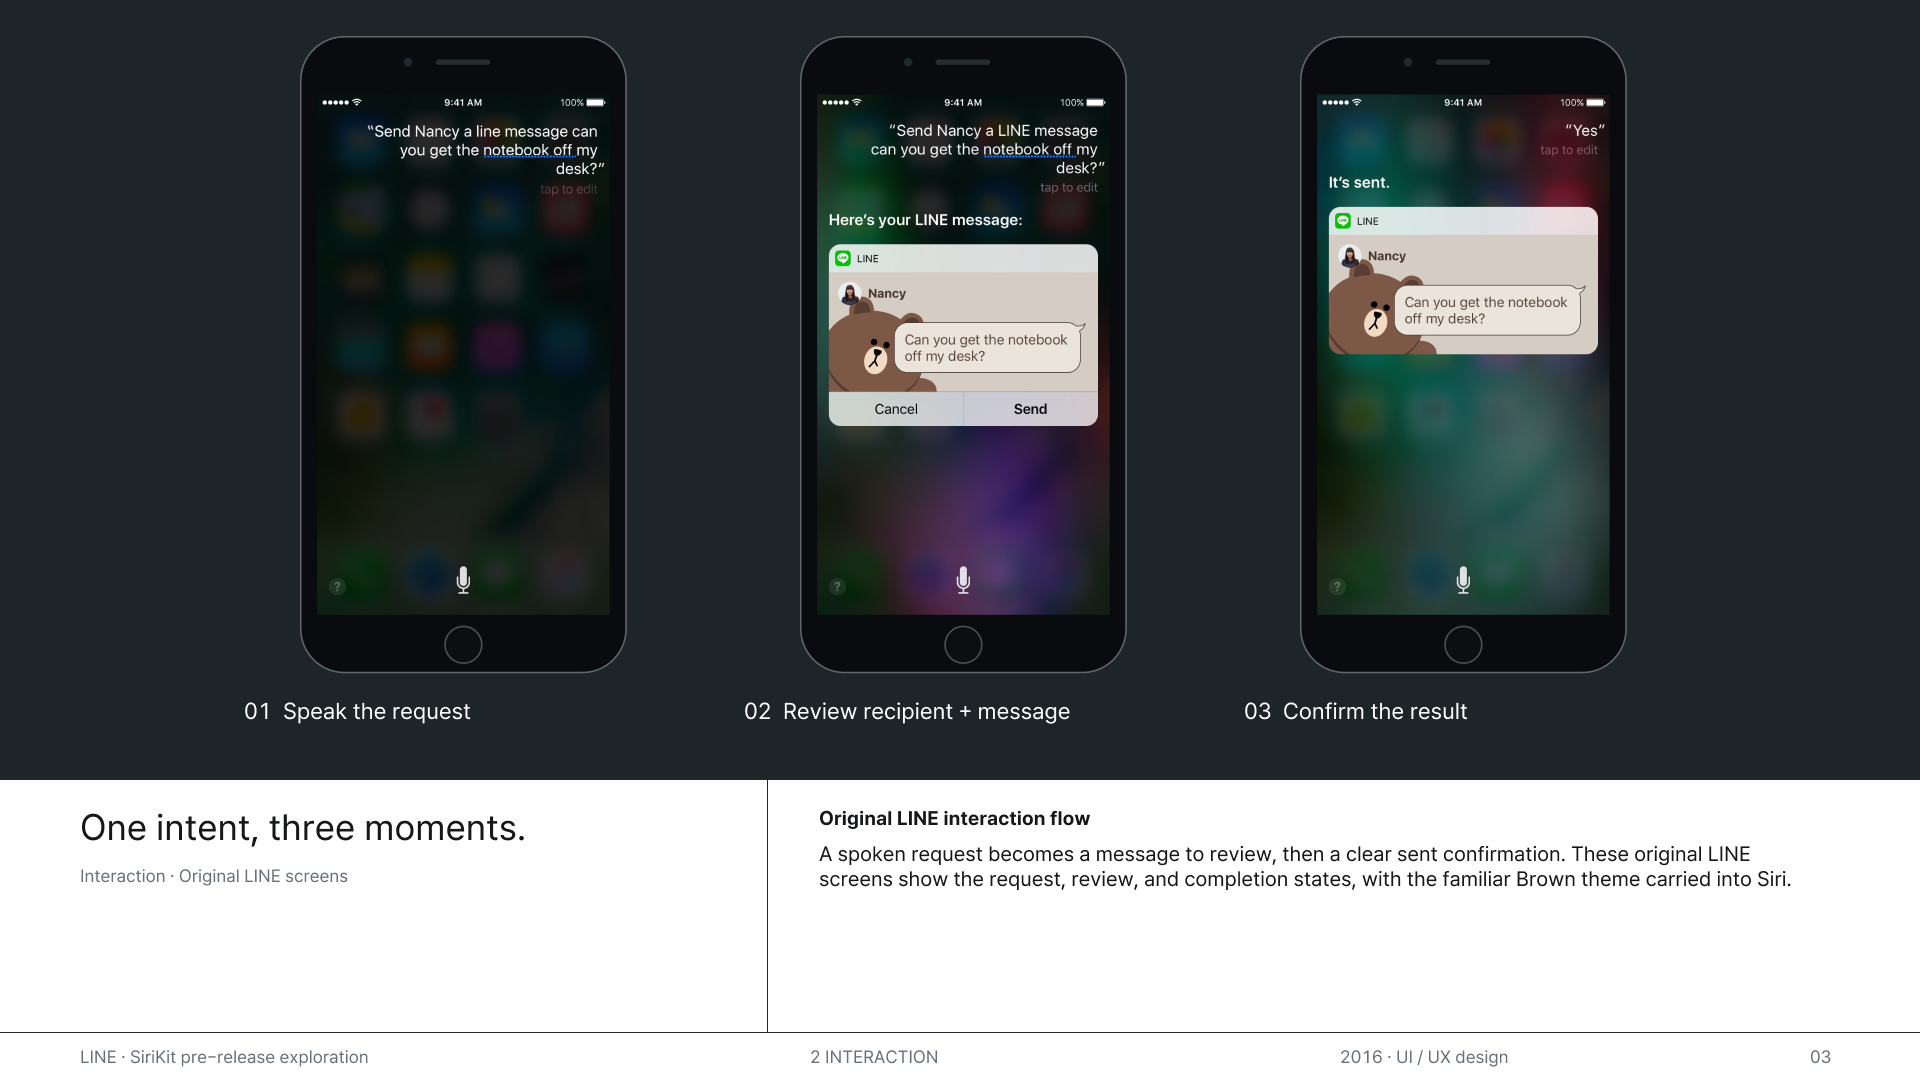
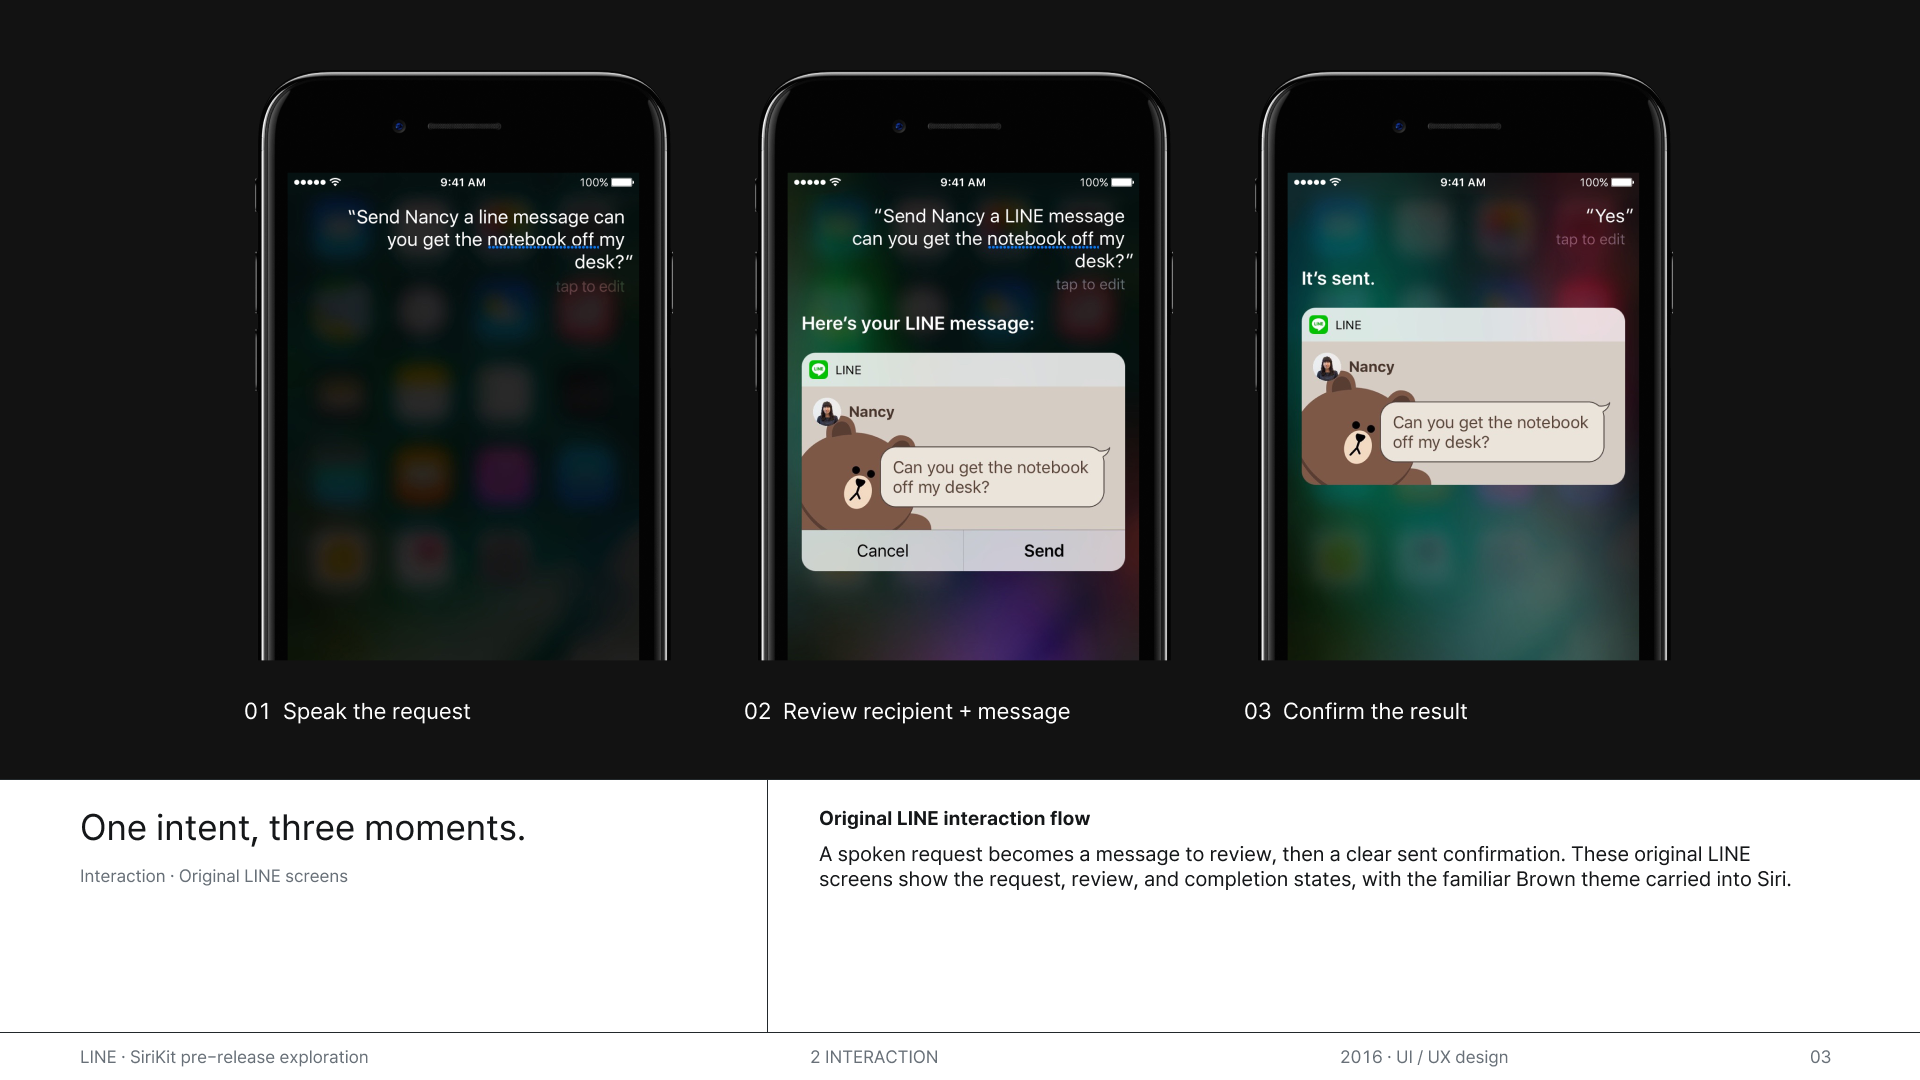
Refresh Siri keyvisuals and animated cover

Changed region(s): [[0.125, 0.0306, 0.625, 0.6417], [0.6562, 0.0306, 0.875, 0.6417], [0.2188, 0.5194, 0.25, 0.55]]

diff --git a/siri-story.js b/siri-story.js
@@ -3,9 +3,9 @@
 window.SiriStory = (() => {
   const base = 'assets/line/';
   const layers = [
-    [-645,-70,520,'request'],[-323,-245,740,'review'],[0,-327,450,'sent'],
-    [323,-175,620,'request'],[645,-268,480,'review'],[-645,567,480,'sent'],
-    [-323,392,600,'request'],[0,585,360,'review'],[323,500,600,'sent'],[645,430,480,'request']
+    [-645,-70,520,'short'],[-323,-245,740,'review'],[0,-327,450,'sent'],
+    [323,-175,620,'theme-b'],[645,-268,480,'alternate-review'],[-645,567,480,'theme-c'],
+    [-323,392,600,'listening'],[0,585,360,'request'],[323,500,600,'alternate-sent'],[645,430,480,'long']
   ];
   const clamp = n => Math.max(0,Math.min(1,n));
   let dispose = () => {};
@@ -47,32 +47,63 @@ window.SiriStory = (() => {
         <span class="siri-eyebrow">SiriKit · Voice messaging</span>
         <h2 id="siri-chip-title">Say it to Siri.<br>Send it with LINE.</h2>
         <p>A name. A message. One spoken request.</p>
+        <div class="siri-chip-sequence" aria-hidden="true"><span>Speak</span><i></i><span>Review</span><i></i><span>Send</span></div>
+        <button class="siri-chip-playback" type="button" data-siri-playback aria-label="Pause Siri demonstration">Pause animation</button>
       </div>
       <figure class="siri-chip-phone" aria-label="iPhone 7 with a reconstructed 2016 Siri waveform">
         <img src="${base}apple-iphone7-chip-2016.jpg" width="1104" height="1552" alt="Black iPhone 7, Apple 2016" loading="lazy">
         <div class="siri-chip-display" aria-hidden="true"></div>
+        <div class="siri-chip-messages" aria-hidden="true">${['request','review','sent'].map(state=>`<img data-siri-message="${state}" src="${base}siri-final-${state}.png" alt="Original LINE ${state} screen" width="750" height="1334">`).join('')}</div>
         <div class="siri-chip-wave" data-siri-chip-wave role="img" aria-label="Animated multicolored Siri waveform"></div>
       </figure>
     </section>`;
   }
-  function mountChip(motion){
-    const container=document.querySelector('[data-siri-chip-wave]');
-    if(!container || !window.SiriWave)return ()=>{};
-    // Fixed, bounded backing store; CSS scales it with the original phone geometry.
-    const wave=new SiriWave({container,style:'ios9',width:462,height:332,ratio:2,
+  function makeWave(container,width,height){
+    const wave=new SiriWave({container,style:'ios9',width,height,ratio:2,
       cover:true,autostart:false,speed:.12,amplitude:1.4,pixelDepth:.08});
-    // Render a fully formed still immediately, including reduced-motion page entry.
-    for(let frame=0;frame<40;frame++){wave.clear();wave.draw();}
-    let visible=false,dead=false;
-    function sync(){
-      if(dead)return;
-      if(visible && !document.hidden && !motion.matches)wave.start();else wave.stop();
-    }
+    for(let i=0;i<40;i++){wave.clear();wave.draw();}
+    return wave;
+  }
+  function mountCover(){
+    dispose();
+    const container=document.querySelector('[data-siri-cover]');
+    if(!container||!window.SiriWave)return;
+    const wave=makeWave(container,1000,428),motion=matchMedia('(prefers-reduced-motion: reduce)');
+    let visible=false;
+    function sync(){if(visible&&!document.hidden&&!motion.matches)wave.start();else wave.stop();}
     const observer=new IntersectionObserver(entries=>{visible=entries[0].isIntersecting;sync();});
-    observer.observe(container);
-    document.addEventListener('visibilitychange',sync);
-    motion.addEventListener('change',sync);
-    return ()=>{dead=true;observer.disconnect();document.removeEventListener('visibilitychange',sync);motion.removeEventListener('change',sync);wave.dispose();};
+    observer.observe(container);document.addEventListener('visibilitychange',sync);motion.addEventListener('change',sync);
+    dispose=()=>{observer.disconnect();document.removeEventListener('visibilitychange',sync);motion.removeEventListener('change',sync);wave.dispose();dispose=()=>{};};
+  }
+  function renderCover(){return '<div class="kv wide siri-cover"><div data-siri-cover role="img" aria-label="Animated multicolored Siri waveform"></div></div>';}
+  function mountChip(motion){
+    const root=document.querySelector('[data-siri-chip]'),container=root?.querySelector('[data-siri-chip-wave]');
+    if(!container||!window.SiriWave)return ()=>{};
+    const wave=makeWave(container,462,332),messages=[...root.querySelectorAll('[data-siri-message]')];
+    const button=root.querySelector('[data-siri-playback]');
+    let visible=false,dead=false,paused=false,raf=0,last=0,elapsed=0;
+    function paint(){
+      const time=motion.matches?7900:elapsed%10800;
+      const fade=(start,end)=>clamp((time-start)/650)*(1-clamp((time-end)/650));
+      const weights=[fade(2500,4300),fade(4300,7300),fade(7300,9700)];
+      const scene=time<2500?'listening':time<4300?'request':time<7300?'review':'sent';
+      root.dataset.siriChipStage=scene;
+      messages.forEach((img,i)=>{const alpha=weights[i];img.style.opacity=alpha;img.style.transform='translateY('+(1-alpha)*10+'px)';});
+      container.style.opacity=String(1-clamp((time-2300)/650)+clamp((time-10000)/650));
+      if(visible&&!paused&&!document.hidden&&!motion.matches&&time<3000)wave.start();else wave.stop();
+    }
+    function frame(now){raf=0;if(dead)return;if(last)elapsed+=Math.min(100,now-last);last=now;paint();raf=requestAnimationFrame(frame);}
+    function sync(){
+      cancelAnimationFrame(raf);raf=0;last=0;
+      paint();
+      if(visible&&!document.hidden&&!motion.matches&&!paused)raf=requestAnimationFrame(frame);
+      button.hidden=motion.matches;
+    }
+    const observer=new IntersectionObserver(entries=>{const next=entries[0].isIntersecting;if(next&&!visible)elapsed=0;visible=next;sync();});
+    observer.observe(root.querySelector('.siri-chip-phone'));
+    function toggle(){paused=!paused;button.textContent=paused?'Play animation':'Pause animation';button.setAttribute('aria-label',(paused?'Play':'Pause')+' Siri demonstration');sync();}
+    button.addEventListener('click',toggle);document.addEventListener('visibilitychange',sync);motion.addEventListener('change',sync);sync();
+    return ()=>{dead=true;cancelAnimationFrame(raf);observer.disconnect();button.removeEventListener('click',toggle);document.removeEventListener('visibilitychange',sync);motion.removeEventListener('change',sync);wave.dispose();};
   }
   function mount(){
     dispose();
@@ -103,5 +134,5 @@ window.SiriStory = (() => {
     paint();
     dispose=()=>{dead=true;disposeChip();cancelAnimationFrame(raf);window.removeEventListener('scroll',schedule);window.removeEventListener('resize',schedule);motion.removeEventListener('change',schedule);dispose=()=>{};};
   }
-  return {renderHero,renderVoice,renderChip,mount,cleanup:()=>dispose()};
+  return {renderHero,renderVoice,renderChip,renderCover,mount,mountCover,cleanup:()=>dispose()};
 })();

diff --git a/siri-story.css b/siri-story.css
@@ -30,12 +30,32 @@
 .siri-chip-copy{max-width:780px}
 .siri-chip h2{color:#fff;font-size:clamp(36px,5vw,64px);font-weight:500;line-height:1.08;letter-spacing:-.035em;margin:20px 0 24px}
 .siri-chip-copy p{font-size:clamp(17px,1.8vw,21px);line-height:1.5;color:#ccc;margin:0}
-.siri-chip-phone{position:relative;width:min(552px,calc(100% - 48px));aspect-ratio:552/596;overflow:hidden;margin:78px auto 0}
+.siri-chip-phone{position:relative;width:min(552px,calc(100% - 48px));aspect-ratio:1104/1552;overflow:hidden;margin:36px auto 0}
 .siri-chip-phone>img{display:block;width:100%;height:auto;max-width:none}
-.siri-chip-display{position:absolute;left:8.15%;right:8.15%;top:18%;bottom:0;background:linear-gradient(180deg,transparent,#000 14%)}
+.siri-chip-display{position:absolute;left:8.15%;right:8.15%;top:17.4%;bottom:0;background:#000}
 .siri-chip-wave{position:absolute;left:8.15%;width:83.7%;top:33.89%;aspect-ratio:462/332;background:#000}
 .siri-chip-wave canvas{display:block}
 @media(max-width:735px){.siri-chip-phone{width:min(384px,calc(100% - 48px));margin-top:44px}}
 @media(max-width:1068px){.siri-hero-title{width:220px}.siri-hero-title h1{font-size:54px}}
 @media(max-width:735px){.siri-hero-title{width:190px}.siri-hero-title h1{font-size:38px}.siri-hero-title p{font-size:10px;margin-bottom:9px}.siri-voice{padding:72px 0 90px}.siri-voice blockquote{margin:44px 0}.siri-voice-steps{grid-template-columns:1fr;gap:28px}.siri-voice-caption{margin-top:40px}}
 @media(prefers-reduced-motion:reduce){.siri-hero{height:100svh}.siri-hero-stage{position:relative}.siri-device{will-change:auto}}
+
+.siri-chip-messages{position:absolute;left:8.15%;width:83.7%;top:17.4%;aspect-ratio:750/1334}
+.siri-chip-messages img{position:absolute;inset:0;width:100%;height:100%;object-fit:contain;opacity:0;will-change:opacity,transform}
+.siri-chip-sequence{display:flex;align-items:center;justify-content:center;gap:16px;margin:24px 0 12px;font-size:12px;letter-spacing:.1em;text-transform:uppercase;color:#aaa}
+.siri-chip-sequence i{width:32px;height:1px;background:#555}
+.siri-chip-playback{border:0;background:none;color:#a5a5a5;font:inherit;font-size:12px;padding:8px 12px;cursor:pointer;text-decoration:underline;text-underline-offset:4px}
+.siri-chip-playback:focus-visible{outline:2px solid #9ddfff;outline-offset:4px}
+.siri-cover{background:#000!important;position:relative}
+.siri-cover [data-siri-cover]{position:absolute;inset:0}
+.siri-cover canvas{display:block;width:100%!important;height:100%!important}
+@media(prefers-reduced-motion:reduce){.siri-chip-messages img{will-change:auto}}
+
+@media(min-width:900px){
+ .siri-chip{display:grid;grid-template-columns:minmax(0,1fr) minmax(0,1fr);align-items:center;gap:40px;padding:80px max(var(--gutter),calc((100vw - 1280px)/2)) 0;min-height: min(900px,100svh)}
+ .siri-chip-copy{padding:0;text-align:left;width:100%;max-width:580px}
+ .siri-chip h2{font-size:clamp(42px,4.5vw,64px)}
+ .siri-chip-sequence{justify-content:flex-start}
+ .siri-chip-playback{padding-left:0}
+ .siri-chip-phone{align-self:end;width:min(100%,480px,calc((100svh - 100px)*.71134));margin:0 auto}
+}

diff --git a/index.html b/index.html
@@ -291,7 +291,7 @@
 </style>
 <link rel="stylesheet" href="domino-zoom.css?v=mobile-memory-1">
 <link rel="stylesheet" href="domino-background.css?v=2074-3">
-<link rel="stylesheet" href="siri-story.css?v=20261019-final">
+<link rel="stylesheet" href="siri-story.css?v=20261019-keyvisual">
 <link rel="stylesheet" href="samsung-story.css?v=hero-heading-1">
 <link rel="stylesheet" href="samsung-governance.css?v=neutral-controls-1">
 <link rel="stylesheet" href="samsung-workspace.css?v=digital-twin-1">
@@ -322,7 +322,7 @@
 <script src="domino-zoom.js?v=mobile-memory-1"></script>
 <script src="domino-background.js?v=2074-2"></script>
 <script src="assets/vendor/siriwave/siriwave-2.4.0.js"></script>
-<script src="siri-story.js?v=20261019-final"></script>
+<script src="siri-story.js?v=20261019-keyvisual"></script>
 <script src="samsung-workspace.js?v=digital-twin-1"></script>
 <script src="samsung-governance.js?v=neutral-controls-1"></script>
 <script src="samsung-story.js?v=digital-twin-1"></script>
@@ -521,7 +521,7 @@ const DECKS = {
 };
 const META_SOLUTIONS = [{"key":"upcoming","title":"CTA for Upcoming 1:1s","description":"Start from an upcoming meeting. Open the shared 1:1 note directly from Home, so preparation begins in the flow of the workday.","src":"assets/meta/solution-upcoming.png"},{"key":"event-notes","title":"Event details with 1:1 notes","description":"Keep the meeting and its shared notes together. Review the agenda from event details before joining the conversation.","src":"assets/meta/solution-event-notes.png"},{"key":"quick-editor","title":"Quick editor","description":"Add or update talking points in place. A focused editor makes it easy to capture context without leaving the meeting flow.","src":"assets/meta/solution-quick-editor.png"},{"key":"discover","title":"Discover & Add your 1:1s","description":"Find existing 1:1s and create a new one from a single list. Recurring conversations stay easy to return to.","src":"assets/meta/solution-discover.png"}];
 const DECK_BASE = 'assets/decks/';
-const DECK_REVISION = '20261019-line-siri-final';
+const DECK_REVISION = '20261019-line-siri-photo';
 const slideSrc = name => DECK_BASE + encodeURIComponent(name) + '.png?v=' + DECK_REVISION;
 // Video bounds in the original 1920×1080 Figma frames.
 const SLIDE_VIDEOS = {
@@ -720,7 +720,7 @@ function renderHome(){
     <section class="strips" id="work" aria-label="Selected work">
       ${CASES.map((c,i) => `
         <a class="strip" href="#/work/${c.slug}">
-          ${kvHTML({from:c.kvHomeFrom||c.blocks[2].from, src:c.kvHome||'', alt:c.kvHomeAlt||''}, 'wide')}
+          ${c.slug==='line' ? SiriStory.renderCover() : kvHTML({from:c.kvHomeFrom||c.blocks[2].from, src:c.kvHome||'', alt:c.kvHomeAlt||''}, 'wide')}
           <div class="ed">
             <div class="ed-grid wrap">
               <div class="ed-left">
@@ -737,6 +737,7 @@ function renderHome(){
     </section>`;
   startMorph();
   observeKV();
+  SiriStory.mountCover();
 }
 
 let kvRO = null;

diff --git a/README.md b/README.md
@@ -92,7 +92,9 @@ The existing `#/work/line` route presents Siri for LINE. AI Speaker, Group Call 
 
 Four `LINE Siri 01–04` slides in [Interview Deck · AI Strategy](https://www.figma.com/design/XsDIEcceMNRpfouwbhCh6I/2026?node-id=2397-410) reuse the 1920×1080 template, Domino Sans typography, dark visual field, lower caption columns, and footer. Nodes: `2397:410`, `2397:482`, `2397:534`, `2397:650`. Website PNG exports are 1920×1080. Slide typography remains editable; the original UI screens are preserved as image assets.
 
-The final design source is the `siri apps` section `2523:58941`. Hero request, review and sent images map to `2523:58959`, `2523:58960`, and `2523:58961` respectively, exported at their native 750×1334 resolution into `assets/line/siri-final-*.png`. Slides also use `2523:58966` and `2523:58968` for short and long message variations. The source section is unchanged. Existing scroll geometry and Siri waveform animation are retained.
+The final design source is the `siri apps` section `2523:58941`. The hero includes ten native 750×1334 screens in `assets/line/siri-final-*.png`: listening (`2523:58958`), request/review/sent (`2523:58959–58961`), alternate conversation/list (`2523:58962–58963`), short/long messages (`2523:58966`, `2523:58968`), and themes B/C (`2523:58946`, `2523:58949`). The source section and hero scroll geometry are unchanged. All four slides use the original black iPhone 7 photo from the voice demonstration; original UI images remain separate layers.
+
+The homepage cover renders the Siri waveform. The voice demonstration repeats a 10.8-second sequence from listening to request, review, and sent, with crossfades and pause/play. Animation stops offscreen and in hidden tabs; reduced motion shows a static sent state. Route changes dispose of the waveform and animation listeners.
 
 The participation account comes from Minjung Kim. Public historical context is grounded in [Apple’s June 13, 2016 iOS 10 announcement](https://www.apple.com/newsroom/2016/06/apple-previews-ios-10-biggest-ios-release-ever/) and the supplied [WWDC keynote reference](https://www.youtube.com/watch?v=n5jXg_NNiCA). The public WeChat demonstration is distinct from Minjung’s original LINE design work.
 
